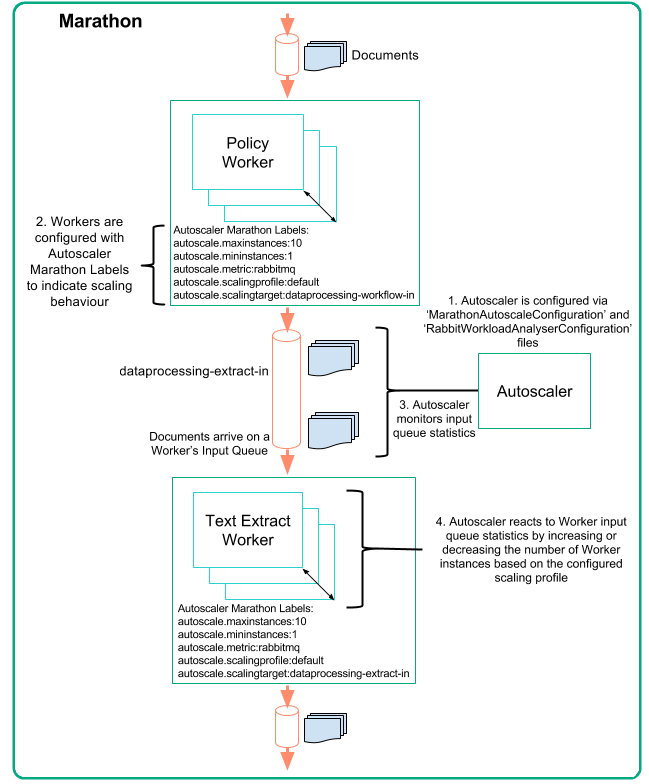
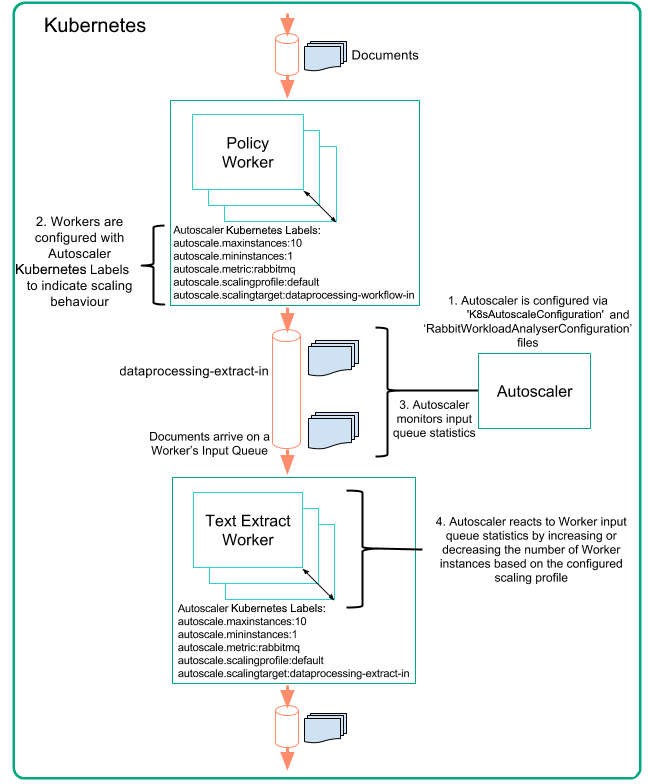
Doc updates and removed quick start

diff --git a/docs/pages/en-us/Architecture.md b/docs/pages/en-us/Architecture.md
@@ -12,7 +12,7 @@ banner:
 
 # Architecture
 
-The Autoscaler service monitors Marathon microservice message throughput statistics and scales microservice instances up or down according to their configuration. By scaling microservices according to their demand, the Autoscaler enables efficient system resource allocation. The following high-level architecture description explains the relationship of the Autoscaler and its components.
+The Autoscaler service monitors Kubernetes microservice message throughput statistics and scales microservice instances up or down according to their configuration. By scaling microservices according to their demand, the Autoscaler enables efficient system resource allocation. The following high-level architecture description explains the relationship of the Autoscaler and its components.
 
 ## Overview
 
@@ -23,9 +23,9 @@ The figure below illustrates the Worker scaling functionality of the Autoscaler.
 The pipes represent asynchronous message queues on RabbitMQ.
 
 1. Autoscaler is configured via configuration files:
- - `MarathonAutoscalerConfiguration` contains configuration options for the Marathon endpoint and maximum number of overall microservice instances.
+ - `K8sAutoscaleConfiguration` contains configuration options for the Kubernetes endpoint and maximum number of overall microservice instances.
  - `RabbitWorkloadAnalyserConfiguration` contains configuration options for the RabbitMQ Management endpoint, RabbitMQ Management user details and Autoscaler Rabbit Workload Scaling Profiles.
-2. Workers (microservices) are configured with Marathon Labels for Autoscaler use.
+2. Workers (microservices) are configured with Kubernetes Labels for Autoscaler use.
 3. Autoscaler monitors Workers' RabbitMQ input queue's load processing statistics.
 4. Autoscaler increases or decreases the number of Worker instances for an input queue based on input queue statistics and the scaling profile set for the Worker.
 
@@ -36,7 +36,7 @@ The `autoscale-core` is built on an extensible framework that can be used to bui
 
 ### Configuration
 
-If you are running on the Marathon platform, no environment variables are required to be set to start the Autoscale Application. If you are not running on the Marathon platform, you will need to set `CAF_APPNAME` to an appropriate value to specify the namespace/grouping for the particular autoscaler instance.  
+If you are running on the Kubernetes platform, no environment variables are required to be set to start the Autoscale Application. If you are not running on the Kubernetes platform, you will need to set `CAF_APPNAME` to an appropriate value to specify the namespace/grouping for the particular autoscaler instance.  
 
 The following configuration can (optionally) be set in the .yaml file:
 * sourceRefreshPeriod (integer), the time in seconds between refreshing the available services to autoscale, defaults to 900
@@ -98,11 +98,3 @@ A service needs to specify various information about how it wants its workload t
 * backoff: the number of workload analysis runs that will be skipped after the analyzer triggers a scaling operation. This can help avoid unusual scaling behavior while the system is in-between states
     
 There are additional scenarios which may mean a service may be ignored by an instance of the Autoscale Application which are outside basic validation. These are the cases where the application owner of the Autoscale instance does not match the appOwner specified in the `ScalingConfiguration` and the case where the workload metric specified is not available to that instance of the Autoscale Application.
-
-### Further Reading
-
-The Getting Started guide, [here](Getting-Started), contains the following information:
-
-- Autoscaler `MarathonAutoscalerConfiguration` configuration file options
-- Autoscaler `RabbitWorkloadAnalyserConfiguration` configuration file options and creating Autoscaler scaling profiles
-- Microservice Autoscaler Marathon labels required for auto-scaling
